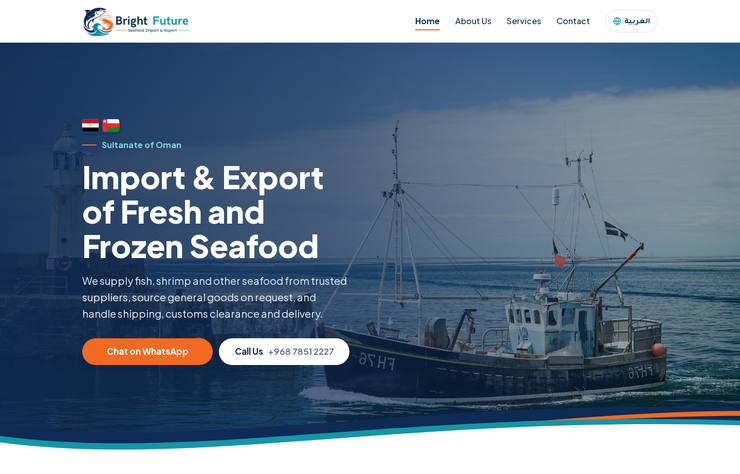
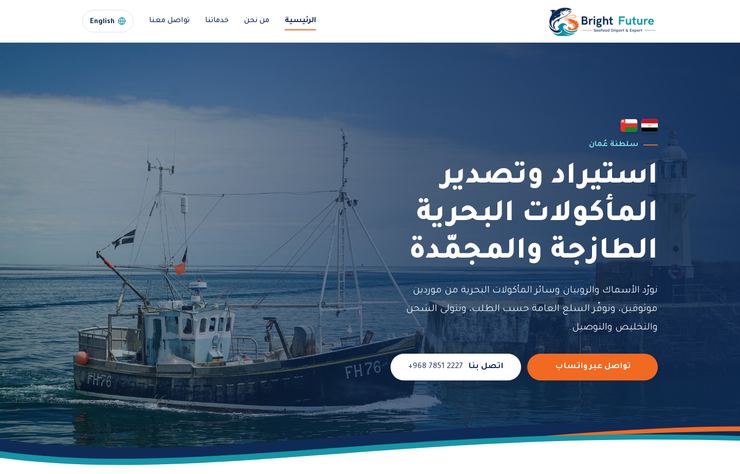
Differentiate Ramy Agamy and Bright Future portfolio cards
Swap the look-alike hero screenshots for the due-date calculator and the
Arabic RTL homepage, and rewrite each description around what is unique
to that project.

diff --git a/src/pages/portfolio/portfolio.data.ts b/src/pages/portfolio/portfolio.data.ts
@@ -7,9 +7,10 @@ export const projects = [
     name: "Dr. Ramy Agamy Clinics",
     url: "https://ramyagamy.com/en",
     desc:
-      "Website for an obstetrics and gynecology practice. Bilingual Arabic/English with full RTL, " +
-      "an MDX-based articles section, pregnancy calculators, and WhatsApp/phone booking. " +
-      "Full SEO setup: localized metadata, hreflang alternates, and JSON-LD structured data.",
+      "Content-driven site for an OB/GYN and fertility practice. Patient-facing tools like the " +
+      "due-date and ovulation calculators, an MDX articles section, and per-clinic location pages. " +
+      "Built for search: JSON-LD structured data, hreflang alternates, and localized metadata " +
+      "across Arabic and English.",
     meta: "Freelance client work.",
     imgSrc: img("ramy-agamy.png"),
     stack: [
@@ -26,8 +27,9 @@ export const projects = [
     name: "Bright Future",
     url: "https://brightfutureid.net/en/",
     desc:
-      "Company site for a seafood import/export business in Oman. Bilingual Arabic/English with " +
-      "RTL support and localized SEO metadata, statically exported and deployed to GitHub Pages.",
+      "Arabic-first company site for a seafood import/export business in Oman, with a mirrored " +
+      "right-to-left layout and an English version. Shipped as a fully static Next.js export " +
+      "on GitHub Pages: no server to run, near-zero hosting cost for the client.",
     meta: "Freelance client work.",
     imgSrc: img("bright-future.png"),
     stack: ["Next.js", "TypeScript", "Tailwind CSS", "GitHub Pages"],
